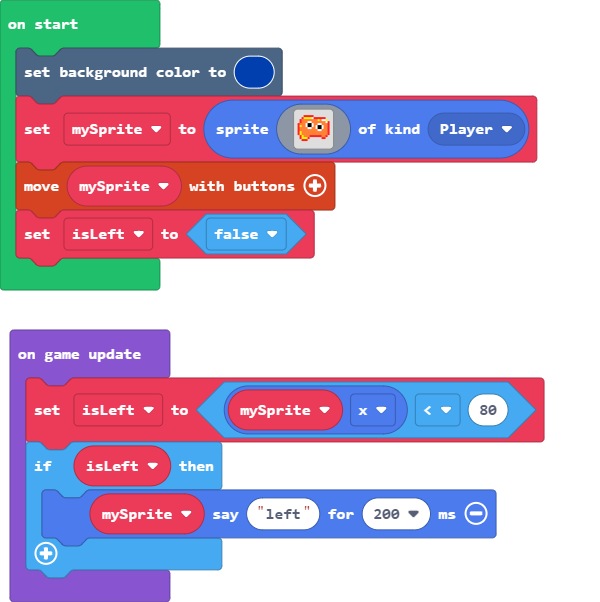
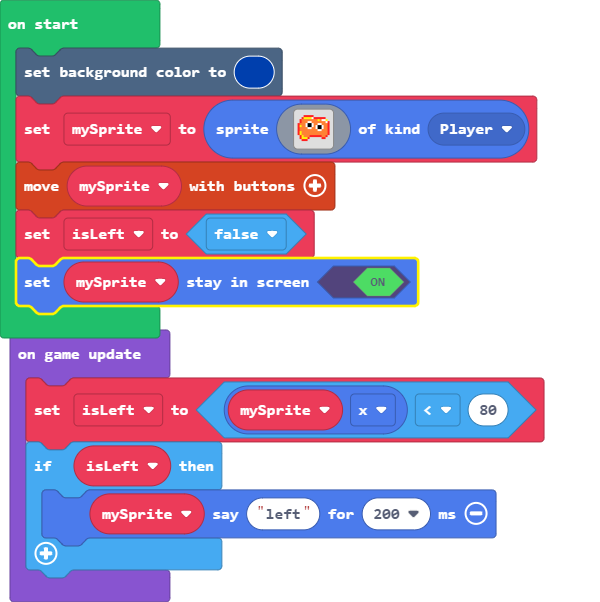
Update main.blocks, main.ts

Changed region(s): [[0.0, 0.4186, 0.72, 0.5681]]

diff --git a/main.ts b/main.ts
@@ -19,6 +19,7 @@ let mySprite = sprites.create(img`
     `, SpriteKind.Player)
 controller.moveSprite(mySprite)
 let isLeft = false
+mySprite.setStayInScreen(true)
 game.onUpdate(function () {
     isLeft = mySprite.x < 80
     if (isLeft) {
